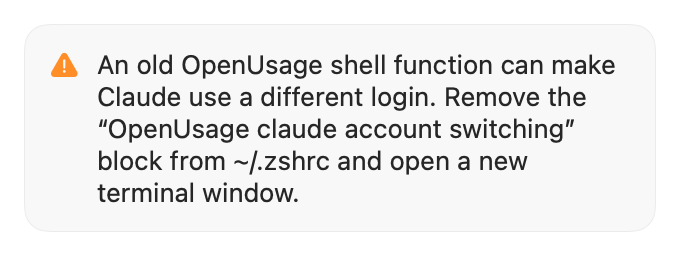
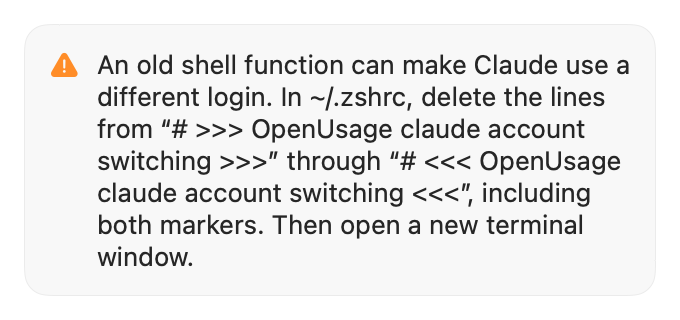
fix(providers): verify Cursor cache hits and clarify Claude shell removal

Changed region(s): [[0.0618, 0.1562, 0.9265, 0.8438]]

diff --git a/Tests/EgasuTests/CursorUsageHistoryRecoveryTests.swift b/Tests/EgasuTests/CursorUsageHistoryRecoveryTests.swift
@@ -120,6 +120,45 @@ final class CursorUsageHistoryRecoveryTests: XCTestCase {
         }
     }
 
+    func testScheduledRefreshRechecksLoginAndReusesOnlyTheSameCursorAccountWithinTTL() async throws {
+        let fixture = try makeFixture()
+        defer { fixture.defaults.removePersistentDomain(forName: fixture.suite) }
+        _ = await fixture.store.refresh(providerID: "cursor", force: true)
+
+        fixture.sqlite.setToken(try token(identity: "history-fixture", expiresAt: 9_999_999_998))
+        let same = await fixture.store.refresh(providerID: "cursor")
+        XCTAssertEqual(same, .cacheHit)
+        let beforeSwitch = await fixture.http.quotaRequests
+        XCTAssertEqual(beforeSwitch, 1)
+
+        fixture.sqlite.setToken(try token(identity: "another-account"))
+        await fixture.http.setBody(try body(tokens: [200]))
+        let changed = await fixture.store.refresh(providerID: "cursor")
+
+        XCTAssertEqual(changed, .refreshed)
+        let afterSwitch = await fixture.http.quotaRequests
+        XCTAssertEqual(afterSwitch, 2)
+        XCTAssertEqual(fixture.store.snapshots["cursor"]?.usageHistory?.series.daily.first?.totalTokens, 200)
+        XCTAssertEqual(fixture.cache.producedByIdentityKey(providerID: "cursor"), "another-account")
+    }
+
+    func testScheduledRefreshDoesNotApplyPreviousCursorAccountFailureBackoffToNewLogin() async throws {
+        let fixture = try makeFixture()
+        defer { fixture.defaults.removePersistentDomain(forName: fixture.suite) }
+        _ = await fixture.store.refresh(providerID: "cursor", force: true)
+        await fixture.http.failQuota()
+        _ = await fixture.store.refresh(providerID: "cursor", force: true)
+        XCTAssertNotNil(fixture.store.providerErrors["cursor"])
+
+        fixture.sqlite.setToken(try token(identity: "new-login"))
+        await fixture.http.failQuota(false)
+        let switched = await fixture.store.refresh(providerID: "cursor")
+
+        XCTAssertEqual(switched, .refreshed)
+        XCTAssertNil(fixture.store.providerErrors["cursor"])
+        XCTAssertEqual(fixture.store.snapshots["cursor"]?.producedByIdentityKey, "new-login")
+    }
+
     func testQuotaFailureDropsMismatchedMemoryOnlySnapshot() throws {
         let fixture = try makeFixture()
         defer { fixture.defaults.removePersistentDomain(forName: fixture.suite) }
@@ -339,10 +378,11 @@ private actor CursorRecoveryHTTP: HTTPClient {
     private var failure: Int?
     private var retryAfter: String?
     private(set) var historyRequests = 0
+    private(set) var quotaRequests = 0
 
     init(body: Data, clock: CursorHistoryClock) { self.body = body; self.clock = clock }
 
-    func failQuota() { quotaFailed = true }
+    func failQuota(_ failed: Bool = true) { quotaFailed = failed }
     func setBody(_ body: Data) { self.body = body }
     func setFailure(_ status: Int?, retryAfter: String? = nil) {
         failure = status
@@ -361,6 +401,7 @@ private actor CursorRecoveryHTTP: HTTPClient {
             }
             return HTTPResponse(statusCode: 200, headers: [:], body: self.body)
         } else if url.contains("GetCurrentPeriodUsage") {
+            quotaRequests += 1
             if quotaFailed { return HTTPResponse(statusCode: 500, headers: [:], body: Data()) }
             body = #"{"enabled":true,"planUsage":{"limit":100,"remaining":75,"totalPercentUsed":25}}"#
         } else if url.contains("GetPlanInfo") {

diff --git a/Sources/Egasu/Stores/ProviderRefreshCoordinator.swift b/Sources/Egasu/Stores/ProviderRefreshCoordinator.swift
@@ -127,7 +127,9 @@ final class ProviderRefreshCoordinator {
         guard !refreshWork.isPending(provider) else { return false }
         return queuedRefreshBatches.values.contains { batch in
             batch.providerIDs.contains(providerID)
-                && refreshCacheHit(providerID: providerID, force: batch.force, trigger: batch.trigger) == nil
+                && refreshCacheHit(
+                    providerID: providerID, force: batch.force, trigger: batch.trigger,
+                    currentIdentityKey: snapshotStore.identityKeys[providerID]) == nil
                 && !refreshSchedule.isBackedOff(providerID, force: batch.force)
         }
     }
@@ -220,12 +222,14 @@ final class ProviderRefreshCoordinator {
         refreshResults[providerID] = .failed(ProviderRefreshFailure(message: message, presentation: presentation))
     }
 
-    private func refreshCacheHit(providerID: String, force: Bool, trigger: RefreshTrigger) -> ProviderSnapshot? {
+    private func refreshCacheHit(
+        providerID: String, force: Bool, trigger: RefreshTrigger, currentIdentityKey: String?
+    ) -> ProviderSnapshot? {
         guard !force, !refreshSchedule.requiresScheduledRefresh(providerID, trigger: trigger),
               !invalidatedAuthentication.contains(providerID),
             !providersNeedingCredentialRefresh.contains(providerID)
         else { return nil }
-        return snapshotStore.cachedSnapshot(for: providerID)
+        return snapshotStore.cachedSnapshot(for: providerID, currentIdentityKey: currentIdentityKey)
     }
 
     @discardableResult
@@ -238,7 +242,23 @@ final class ProviderRefreshCoordinator {
     ) async -> RefreshOutcome {
         guard !Task.isCancelled, isProviderEnabled(providerID) else { return .skipped }
         guard isRefreshSuspended?(providerID) != true else { return .skipped }
-        if let cached = refreshCacheHit(providerID: providerID, force: force, trigger: trigger) {
+        var cacheIdentity = snapshotStore.identityKeys[providerID]
+        if !force, let cursor = providersByID[providerID] as? CursorProvider,
+            snapshotStore.localSnapshots[providerID] != nil
+        {
+            let generation = catalogGeneration
+            cacheIdentity = await cursor.currentIdentityKey()
+            guard !Task.isCancelled, generation == catalogGeneration, isProviderEnabled(providerID),
+                isRefreshSuspended?(providerID) != true
+            else { return .skipped }
+            if snapshotStore.discardMismatchedCursorReading(for: providerID, currentIdentityKey: cacheIdentity) {
+                credentialsDidChange(for: providerID)
+                rebuildRenderedSnapshots()
+            }
+        }
+        if let cached = refreshCacheHit(
+            providerID: providerID, force: force, trigger: trigger, currentIdentityKey: cacheIdentity)
+        {
             // 값이 같으면 재할당 생략 — Observable의 불필요한 메뉴 막대 재렌더링 방지.
             AppLog.debug(.refresh, "cache hit \(providerID)")
             if snapshotStore.useCachedSnapshot(cached) { rebuildRenderedSnapshots() }

diff --git a/Sources/Egasu/Stores/ProviderSnapshotStore.swift b/Sources/Egasu/Stores/ProviderSnapshotStore.swift
@@ -47,10 +47,17 @@ final class ProviderSnapshotStore {
         ProviderAccountID.family(of: providerID) == "claude" && identityKeys[providerID] == nil
     }
 
-    func cachedSnapshot(for providerID: String) -> ProviderSnapshot? {
-        let identity = identityKeys[providerID] ?? localSnapshots[providerID]?.producedByIdentityKey
+    func discardMismatchedCursorReading(for providerID: String, currentIdentityKey: String?) -> Bool {
+        guard let local = localSnapshots[providerID] else { return false }
+        let previousIdentity = local.producedByIdentityKey ?? cache.producedByIdentityKey(providerID: providerID)
+        guard currentIdentityKey == nil || currentIdentityKey != previousIdentity else { return false }
+        localSnapshots[providerID] = nil
+        return true
+    }
+
+    func cachedSnapshot(for providerID: String, currentIdentityKey: String?) -> ProviderSnapshot? {
         guard !unresolvedIdentityCacheRejections.contains(providerID),
-            !cache.hasStaleAccountStamp(providerID: providerID, currentIdentityKey: identity)
+            !cache.hasStaleAccountStamp(providerID: providerID, currentIdentityKey: currentIdentityKey)
         else { return nil }
         return cache.snapshot(providerID: providerID)
     }

diff --git a/Sources/Egasu/Services/LegacyClaudeShellSetup.swift b/Sources/Egasu/Services/LegacyClaudeShellSetup.swift
@@ -2,6 +2,9 @@ import Foundation
 
 /// 이전 설치기가 쓴 두 파일에서 짝이 맞는 Claude 블록 마커만 확인.
 struct LegacyClaudeShellSetup: Sendable {
+    static let startMarker = "# >>> OpenUsage claude account switching >>>"
+    static let endMarker = "# <<< OpenUsage claude account switching <<<"
+
     var found: [String] = []
     var unreadable: [String] = []
 
@@ -17,9 +20,9 @@ struct LegacyClaudeShellSetup: Sendable {
                 }
                 var sawStart = false
                 for try await line in file.lines {
-                    if line == "# >>> OpenUsage claude account switching >>>" {
+                    if line == startMarker {
                         sawStart = true
-                    } else if sawStart && line == "# <<< OpenUsage claude account switching <<<" {
+                    } else if sawStart && line == endMarker {
                         result.found.append("~/\(path)")
                         break
                     }

diff --git a/Tests/EgasuTests/CursorUsageEventsTests.swift b/Tests/EgasuTests/CursorUsageEventsTests.swift
@@ -145,9 +145,13 @@ final class CursorUsageEventPagingTests: XCTestCase {
     func testDistinctServerEventsWithIdenticalUsageAreCounted() async throws {
         let http = RoutingHTTPClient { request in
             let body = try JSONSerialization.jsonObject(with: XCTUnwrap(request.body)) as? [String: Any]
-            var event = CursorEventFixture.event()
-            event["requestId"] = body?["page"]
-            let page = try CursorEventFixture.page([event, event], total: 4)
+            let pageNumber = try XCTUnwrap(body?["page"] as? Int)
+            let rows = (0..<2).map { index in
+                var event = CursorEventFixture.event()
+                event["requestId"] = "page-\(pageNumber)-event-\(index)"
+                return event
+            }
+            let page = try CursorEventFixture.page(rows, total: 4)
             return HTTPResponse(statusCode: 200, headers: [:], body: page)
         }
         let events = try await load(http)

diff --git a/Sources/Egasu/Views/Accounts/AccountsView.swift b/Sources/Egasu/Views/Accounts/AccountsView.swift
@@ -90,8 +90,10 @@ struct LegacyClaudeShellNotices: View {
         if !setup.found.isEmpty {
             ProblemCard(
                 message: L10n.accounts(
-                    "An old OpenUsage shell function can make Claude use a different login. Remove the “OpenUsage claude account switching” block from %@ and open a new terminal window.",
-                    setup.found.joined(separator: ", ")
+                    "An old shell function can make Claude use a different login. In %@, delete the lines from “%@” through “%@”, including both markers. Then open a new terminal window.",
+                    setup.found.joined(separator: ", "),
+                    LegacyClaudeShellSetup.startMarker,
+                    LegacyClaudeShellSetup.endMarker
                 ))
         }
         if !setup.unreadable.isEmpty {

diff --git a/docs/cli.md b/docs/cli.md
@@ -103,7 +103,9 @@ MCP 설정·메모리·세션 등 다른 공유 홈 데이터 유지.
 계정 전환 시 `~/.zshrc`·`~/.config/fish/config.fish` 등 셸 설정 파일은 수정하지 않음.
 기존 `>>> OpenUsage` 함수 블록도 자동 제거하지 않음.
 Accounts에서 이전 Claude 블록이 남은 파일 확인 가능.
-이전 함수를 제거하려면 해당 셸 설정 파일에서 `# >>> OpenUsage`로 시작하는 마커부터 대응하는 `# <<< OpenUsage` 마커까지 해당 프로바이더 블록을 직접 삭제한 뒤 새 터미널 창 열기.
+이전 Claude 함수를 제거하려면 표시된 파일에서 `# >>> OpenUsage claude account switching >>>` 줄부터 `# <<< OpenUsage claude account switching <<<` 줄까지 두 마커를 포함한 블록 전체 삭제.
+이전 Codex 함수를 제거하려면 설치에 사용한 셸 설정 파일에서 두 마커의 프로바이더 이름이 모두 `codex`인 블록 전체 삭제.
+삭제 후 새 터미널 창 열기.
 
 터미널의 인증 환경 변수나 사용자 지정 인증 경로는 변경하지 않음.
 `CLAUDE_CONFIG_DIR`·`CODEX_HOME`, 별도 API 키·인증 환경 변수·Codex keyring을 쓰는 실행은 CLI 설정에 따라 다른 인증을 선택할 수 있음.

diff --git a/docs/providers/cursor.md b/docs/providers/cursor.md
@@ -46,7 +46,7 @@ Today, Yesterday, Last 30 Days, Usage Trend는 Cursor의 사용 이벤트 API에
 전체 페이지를 받은 뒤 이력 교체.
 요청 실패·손상된 이벤트·페이지 누락은 부분 합계를 정상 값으로 표시하지 않고 같은 계정의 마지막 정상 이력 유지.
 현재 로그인이 저장된 계정과 일치할 때만 egasu CLI에서 캐시된 사용량을 반환.
-앱은 현재 로그인을 확인한 뒤 저장된 Cursor 한도와 이력 표시.
+앱은 캐시 유효 기간 안에도 현재 로컬 로그인을 확인하고 같은 계정일 때만 네트워크 조회 생략.
 한도 조회가 실패하고 같은 계정인지 확인할 수 없으면 오류만 표시.
 누락된 기간 행에는 대시보드의 [기간 값 표시 규칙](/docs/dashboard.md#한도가-없는-지표) 적용.
 완료된 빈 응답은 정상 결과이므로 이전 이력 제거.

diff --git a/docs/accounts.md b/docs/accounts.md
@@ -192,7 +192,8 @@ Claude 재로그인과 계정 제거는 남은 전환 기록을 먼저 복구한
 계정 전환 시 `~/.zshrc`·`~/.config/fish/config.fish` 등 셸 설정 파일은 수정하지 않음.
 Accounts를 열면 `~/.zshrc`와 `~/.config/fish/config.fish`에서 이전 OpenUsage의 Claude 블록 시작·끝 마커를 확인.
 두 마커가 남은 파일은 계정 목록과 Claude 계정 상세에 표시.
-기본 Claude 로그인을 쓰려면 표시된 파일에서 해당 블록을 삭제한 뒤 새 터미널 창 열기.
+기본 Claude 로그인을 쓰려면 표시된 파일에서 `# >>> OpenUsage claude account switching >>>` 줄부터 `# <<< OpenUsage claude account switching <<<` 줄까지 두 마커를 포함한 블록 전체 삭제.
+삭제 후 새 터미널 창 열기.
 
 ![Accounts의 이전 Claude 셸 함수 안내](/docs/assets/claude-legacy-shell-notice.png)
 
